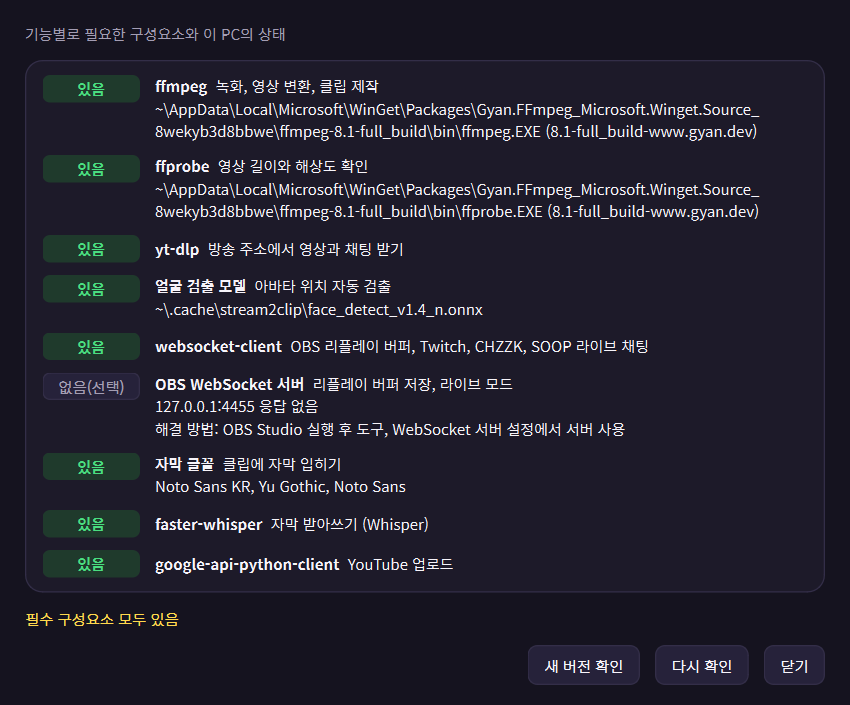
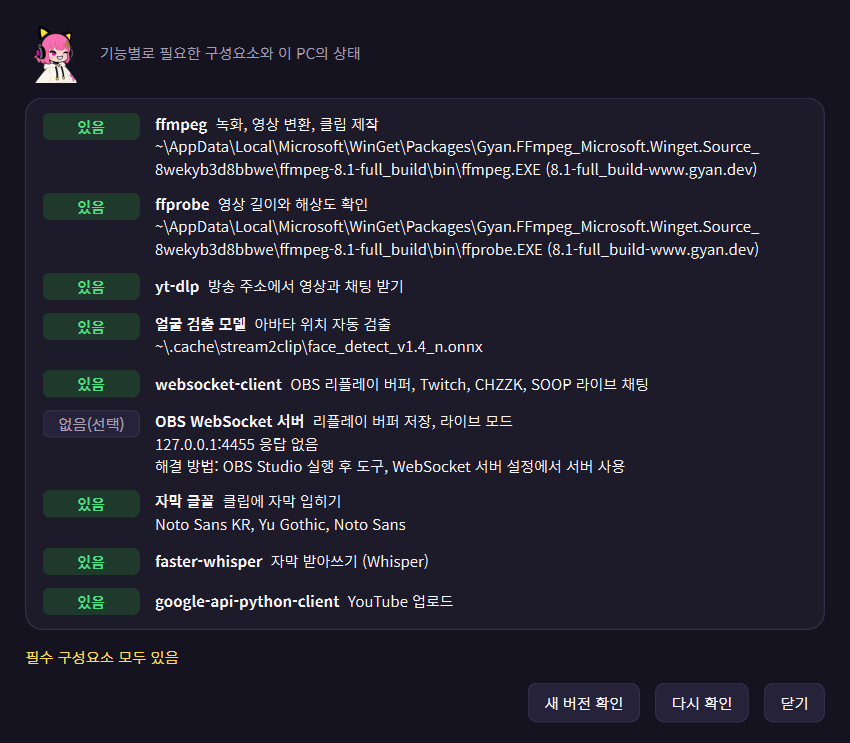
Add Kiri's turned and side views and use them where she looks at something
Three new masters - turned 45 degrees to either side, and from the
side - made from the wink picture with Qwen-Image-Edit-2509 and a
multiple-angles LoRA; how each was made is in the manifest. In the app
the notices and the components window start with Kiri turned towards
their text, and while the highlights window works she looks at the
progress bar. On the main page she sits at the end of the download
heading and beside the manual, turned towards the text.

The green of generated masters reaches a little into the outline:
their edge is drawn in by three pixels. Version 0.13.2.

diff --git a/site/ja/guide.html b/site/ja/guide.html
@@ -90,11 +90,11 @@
       <li>コンポーネントの確認: 開始画面右上の <strong>コンポーネント確認</strong> で、機能ごとに必要なコンポーネントの有無と対処方法を表示。コマンドラインでは <code>stream2clip setup</code></li>
     </ul>
     <figure>
-      <img src="../assets/shots/ja/components.png" alt="コンポーネント確認ウィンドウ: コンポーネントごとの状態、用途、場所、対処方法" width="850" height="713" loading="lazy">
+      <img src="../assets/shots/ja/components.png" alt="コンポーネント確認ウィンドウ: コンポーネントごとの状態、用途、場所、対処方法" width="850" height="750" loading="lazy">
       <figcaption>コンポーネント確認ウィンドウ。ffmpeg と顔検出モデルはこのウィンドウからダウンロード可能</figcaption>
     </figure>
     <figure>
-      <img src="../assets/shots/ja/launcher_ffmpeg.png" alt="ffmpegがないPCの開始画面: 上部の案内と ffmpeg をダウンロード ボタン" width="1018" height="388" loading="lazy">
+      <img src="../assets/shots/ja/launcher_ffmpeg.png" alt="ffmpegがないPCの開始画面: 上部の案内と ffmpeg をダウンロード ボタン" width="1018" height="393" loading="lazy">
       <figcaption>ffmpegがないPCの開始画面。ffmpegの準備ができると案内は消える</figcaption>
     </figure>
     <ul>

diff --git a/site/en/guide.html b/site/en/guide.html
@@ -90,11 +90,11 @@
       <li>Checking components: <strong>Check components</strong> at the top right of the start window lists what each feature needs, whether it is there and how to get it. On the command line: <code>stream2clip setup</code></li>
     </ul>
     <figure>
-      <img src="../assets/shots/en/components.png" alt="Components window: state, purpose, place and fix for each component" width="850" height="728" loading="lazy">
+      <img src="../assets/shots/en/components.png" alt="Components window: state, purpose, place and fix for each component" width="850" height="765" loading="lazy">
       <figcaption>Components window. ffmpeg and the face detection model can be downloaded from it</figcaption>
     </figure>
     <figure>
-      <img src="../assets/shots/en/launcher_ffmpeg.png" alt="Start window on a PC without ffmpeg: the notice at the top with the Download ffmpeg button" width="1109" height="388" loading="lazy">
+      <img src="../assets/shots/en/launcher_ffmpeg.png" alt="Start window on a PC without ffmpeg: the notice at the top with the Download ffmpeg button" width="1109" height="393" loading="lazy">
       <figcaption>Start window on a PC without ffmpeg. The notice goes away once ffmpeg is there</figcaption>
     </figure>
     <ul>

diff --git a/site/guide.html b/site/guide.html
@@ -91,11 +91,11 @@
       <li>구성요소 확인: 시작 화면 우측 상단의 <strong>구성요소 점검</strong>에서 기능별 필요 구성요소의 유무와 해결 방법 표시. 명령줄에서는 <code>stream2clip setup</code></li>
     </ul>
     <figure>
-      <img src="assets/shots/components.png" alt="구성요소 점검 창: 구성요소별 상태, 용도, 위치, 해결 방법" width="850" height="705" loading="lazy">
+      <img src="assets/shots/components.png" alt="구성요소 점검 창: 구성요소별 상태, 용도, 위치, 해결 방법" width="850" height="743" loading="lazy">
       <figcaption>구성요소 점검 창. ffmpeg와 얼굴 검출 모델은 이 창에서 내려받기 가능</figcaption>
     </figure>
     <figure>
-      <img src="assets/shots/launcher_ffmpeg.png" alt="ffmpeg가 없는 PC의 시작 화면: 상단의 안내와 ffmpeg 내려받기 버튼" width="979" height="388" loading="lazy">
+      <img src="assets/shots/launcher_ffmpeg.png" alt="ffmpeg가 없는 PC의 시작 화면: 상단의 안내와 ffmpeg 내려받기 버튼" width="979" height="393" loading="lazy">
       <figcaption>ffmpeg가 없는 PC의 시작 화면. 안내는 ffmpeg가 준비되면 사라짐</figcaption>
     </figure>
     <ul>

diff --git a/site/ja/index.html b/site/ja/index.html
@@ -93,7 +93,7 @@
 
   <section class="block" id="download">
     <div class="wrap">
-      <h2>ダウンロード</h2>
+      <h2 class="peeked">ダウンロード<img class="peek" src="../assets/kiri/kiri_turn_left_512.png" alt="" width="512" height="512" loading="lazy"></h2>
       <div class="split">
         <div class="tablewrap">
           <table>
@@ -199,7 +199,7 @@
     <div class="wrap">
       <h2>取扱説明書</h2>
       <div class="manual">
-        <img src="../assets/kiri/kiri_wink_512.png" alt="マスコットのキリ" width="512" height="512" loading="lazy">
+        <img src="../assets/kiri/kiri_turn_right_512.png" alt="マスコットのキリ" width="512" height="512" loading="lazy">
         <div>
           <p>インストール、基本的な使い方、画面キャプチャと録画、ハイライトクリップの作成、字幕と翻訳、OBS連携、ライブモード、コマンドライン、トラブルシューティングを収録</p>
           <ul class="links">

diff --git a/site/index.html b/site/index.html
@@ -93,7 +93,7 @@
 
   <section class="block" id="download">
     <div class="wrap">
-      <h2>다운로드</h2>
+      <h2 class="peeked">다운로드<img class="peek" src="assets/kiri/kiri_turn_left_512.png" alt="" width="512" height="512" loading="lazy"></h2>
       <div class="split">
         <div class="tablewrap">
           <table>
@@ -199,7 +199,7 @@
     <div class="wrap">
       <h2>사용 설명서</h2>
       <div class="manual">
-        <img src="assets/kiri/kiri_wink_512.png" alt="마스코트 키리" width="512" height="512" loading="lazy">
+        <img src="assets/kiri/kiri_turn_right_512.png" alt="마스코트 키리" width="512" height="512" loading="lazy">
         <div>
           <p>설치, 기본 사용법, 화면 캡쳐 및 녹화, 하이라이트 클립 제작, 자막 및 번역, OBS 연동, 라이브 모드, 명령줄 사용, 문제 해결 수록</p>
           <ul class="links">

diff --git a/site/en/index.html b/site/en/index.html
@@ -93,7 +93,7 @@
 
   <section class="block" id="download">
     <div class="wrap">
-      <h2>Download</h2>
+      <h2 class="peeked">Download<img class="peek" src="../assets/kiri/kiri_turn_left_512.png" alt="" width="512" height="512" loading="lazy"></h2>
       <div class="split">
         <div class="tablewrap">
           <table>
@@ -199,7 +199,7 @@
     <div class="wrap">
       <h2>User manual</h2>
       <div class="manual">
-        <img src="../assets/kiri/kiri_wink_512.png" alt="Kiri, the mascot" width="512" height="512" loading="lazy">
+        <img src="../assets/kiri/kiri_turn_right_512.png" alt="Kiri, the mascot" width="512" height="512" loading="lazy">
         <div>
           <p>Installation, basic use, screen capture and recording, highlight clips, subtitles and translation, OBS, live mode, command line, troubleshooting</p>
           <ul class="links">

diff --git a/site/css/site.css b/site/css/site.css
@@ -147,6 +147,9 @@ figcaption { font-size: 14px; color: var(--soft); margin-top: 8px; }
 /* ---------------------------------------------------------------- home: sections */
 .block { padding: 56px 0; border-top: 1px solid var(--line); }
 .block h2 { font-size: 30px; font-weight: 800; margin: 0 0 28px; }
+/* The mascot at the far end of a heading, turned towards it. */
+.block h2.peeked { display: flex; align-items: flex-end; justify-content: space-between; gap: 16px; }
+.block h2.peeked .peek { width: 84px; height: auto; margin: -22px 0 -6px; }
 .block h3 { font-size: 18px; font-weight: 700; margin: 0 0 12px; }
 .split { display: grid; grid-template-columns: minmax(0, 3fr) minmax(0, 2fr); gap: 56px; align-items: start; }
 .procedure { margin: 0; padding-left: 1.3em; }

diff --git a/tests/test_mascot.py b/tests/test_mascot.py
@@ -256,12 +256,17 @@ def test_the_projects_mascot_files_are_what_their_masters_give(mascot):
     assert data["character"] == "kiri" and data["sizes"] == [512, 112, 56, 28] and data["app_sizes"] == [112, 56]
     from stream2clip.gui import qt
 
-    assert set(data["emotes"]) == set(qt.MOODS)  # every mood the app shows has a master, and nothing else is built
+    assert set(data["emotes"]) == set(qt.MOODS) | set(qt.VIEWS)  # every mood and view the app shows has a master, and nothing else is built
+    assert not set(qt.MOODS) & set(qt.VIEWS)
     for entry in data["emotes"].values():
         assert entry["generator"] and "prompt" in entry and "seed" in entry  # how a picture was made stays with it
     assert mascot.stale() == [], "run: python packaging/build_mascot.py"
-    for name in data["emotes"]:
-        assert mascot.fringe(Image.open(mascot.MASCOT / f"kiri_{name}_512.png")) < 0.02
+    for name, entry in data["emotes"].items():
+        # measured on the master as it is cut out, before scaling: no background left in its rim
+        cut = mascot.cut_out(Image.open(mascot.SOURCE / entry["file"]), entry.get("background", "auto"), shrink=int(entry.get("shrink", 0)))
+        assert mascot.fringe(cut) < 0.02, name
+        with Image.open(mascot.MASCOT / f"kiri_{name}_512.png") as built:
+            assert built.size == (512, 512) and built.getpixel((0, 0))[3] == 0  # the corner is empty: the background is gone
         for size in data["app_sizes"]:
             file = f"kiri_{name}_{size}.png"
             assert (mascot.MASCOT / file).read_bytes() == (mascot.APP_ASSETS / file).read_bytes()

diff --git a/tests/test_gui_wiring.py b/tests/test_gui_wiring.py
@@ -128,6 +128,11 @@ def test_start_window_offers_ffmpeg_when_it_is_missing(app, monkeypatch):
     win.dialogs = False
     assert not win.ffmpeg_notice.isHidden() and not win.ffmpeg_button.isHidden()
     assert win.ffmpeg_label.text() == "ffmpeg 없음. 녹화, 영상 변환, 클립 제작에 필요"
+    from PySide6.QtWidgets import QLabel
+
+    for notice in (win.ffmpeg_notice, win.update_notice):  # Kiri at the start of each notice, turned towards its text
+        faces = [label for label in notice.findChildren(QLabel) if label.objectName() == "NoticeMascot"]
+        assert len(faces) == 1 and not faces[0].pixmap().isNull()
     assert win.ffmpeg_button.text() == f"ffmpeg 내려받기 ({tools.FFMPEG_BUILD.megabytes} MB)"
 
     def fails(on_progress, cancelled):
@@ -237,6 +242,7 @@ def test_components_window_lists_this_pc_and_fetches_what_is_missing(app, monkey
     assert dialog.busy and dialog.summary.text() == "확인 중"
     wait(app, lambda: not dialog.busy)
     assert dialog.obs == ("127.0.0.1", 4460) and [item.key for item in dialog.found] == ["ffmpeg", "model", "obs"]
+    assert not dialog.mascot_label.pixmap().isNull()  # Kiri beside the heading
     assert {key: badge.text() for key, badge in dialog.badges.items()} == {"ffmpeg": "없음", "model": "자동", "obs": "없음(선택)"}
     assert dialog.badges["ffmpeg"].objectName() == "StateMissing" and dialog.summary.text() == "필수 구성요소 없음: ffmpeg"
     assert set(dialog.actions) == {"ffmpeg", "model"} and dialog.actions["ffmpeg"].text() == f"ffmpeg 내려받기 ({tools.FFMPEG_BUILD.megabytes} MB)"

diff --git a/src/stream2clip/gui/launcher.py b/src/stream2clip/gui/launcher.py
@@ -206,6 +206,7 @@ class LauncherWindow(QMainWindow):
         row.setSpacing(10)
         self.update_version, self.update_url = "", ""
         self._update_thread: threading.Thread | None = None
+        row.addWidget(self._notice_mascot())
         self.update_label = QLabel()
         self.update_label.setWordWrap(True)
         row.addWidget(self.update_label, 1)
@@ -309,6 +310,7 @@ class LauncherWindow(QMainWindow):
         row = QHBoxLayout(card)
         row.setContentsMargins(14, 10, 14, 10)
         row.setSpacing(10)
+        row.addWidget(self._notice_mascot())
         self.ffmpeg_label = QLabel()
         self.ffmpeg_label.setWordWrap(True)
         row.addWidget(self.ffmpeg_label, 1)
@@ -322,6 +324,13 @@ class LauncherWindow(QMainWindow):
         self.ffmpeg_again.clicked.connect(self.check_ffmpeg)
         row.addWidget(self.ffmpeg_again)
         return card
+
+    @staticmethod
+    def _notice_mascot() -> QLabel:
+        """Kiri at the start of a notice, turned towards its text."""
+        label = QLabel(objectName="NoticeMascot")
+        label.setPixmap(mascot("turn_right", 36))
+        return label
 
     def ffmpeg_ready(self) -> bool:
         """Whether ffmpeg and ffprobe are found (tests replace this)."""

diff --git a/src/stream2clip/gui/qt.py b/src/stream2clip/gui/qt.py
@@ -21,6 +21,9 @@ ICON_SIZES = (16, 24, 32, 48, 64, 128, 256)
 #: Kiri, the mascot: wink (default), laugh (funny scene), surprised (twist / something went
 #: wrong), cut (clip finished), focus (working).
 MOODS = ("wink", "laugh", "surprised", "cut", "focus")
+#: The same character from other angles: turned 45 degrees to either side (it looks at what is beside it),
+#: and from the side, looking right (something is in progress over there).
+VIEWS = ("turn_left", "turn_right", "side")
 
 
 def app_icon() -> QIcon:
@@ -31,8 +34,8 @@ def app_icon() -> QIcon:
 
 
 def mascot(mood: str = "wink", size: int = 56) -> QPixmap:
-    """Kiri in the given mood, ``size`` logical pixels tall (sharp on HiDPI screens)."""
-    name = mood if mood in MOODS else "wink"
+    """Kiri in the given mood (or view), ``size`` logical pixels tall (sharp on HiDPI screens)."""
+    name = mood if mood in MOODS or mood in VIEWS else "wink"
     screen = QGuiApplication.primaryScreen()
     ratio = screen.devicePixelRatio() if screen is not None else 1.0
     source = QPixmap(asset(f"kiri_{name}_112.png"))

diff --git a/src/stream2clip/gui/components.py b/src/stream2clip/gui/components.py
@@ -17,7 +17,7 @@ from PySide6.QtWidgets import QDialog, QGridLayout, QHBoxLayout, QLabel, QPushBu
 
 from .. import __version__, tools
 from ..i18n import mark, shown, tr
-from .qt import app_icon
+from .qt import app_icon, mascot
 
 __all__ = ["ComponentsDialog", "short_path"]
 
@@ -52,7 +52,13 @@ class ComponentsDialog(QDialog):
         outer = QVBoxLayout(self)
         outer.setContentsMargins(20, 18, 20, 16)
         outer.setSpacing(12)
-        outer.addWidget(QLabel(tr("기능별로 필요한 구성요소와 이 PC의 상태"), objectName="Muted"))
+        head = QHBoxLayout()
+        head.setSpacing(12)
+        self.mascot_label = QLabel()
+        self.mascot_label.setPixmap(mascot("turn_right", 48))  # looks at the heading beside it
+        head.addWidget(self.mascot_label)
+        head.addWidget(QLabel(tr("기능별로 필요한 구성요소와 이 PC의 상태"), objectName="Muted"), 1)
+        outer.addLayout(head)
         card = QWidget(objectName="Card")
         self.grid = QGridLayout(card)
         self.grid.setContentsMargins(14, 12, 14, 12)
